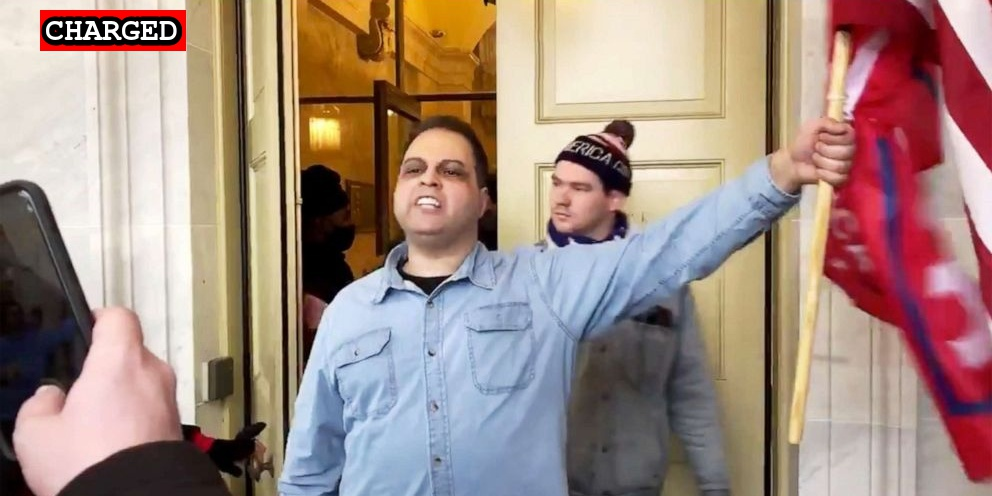
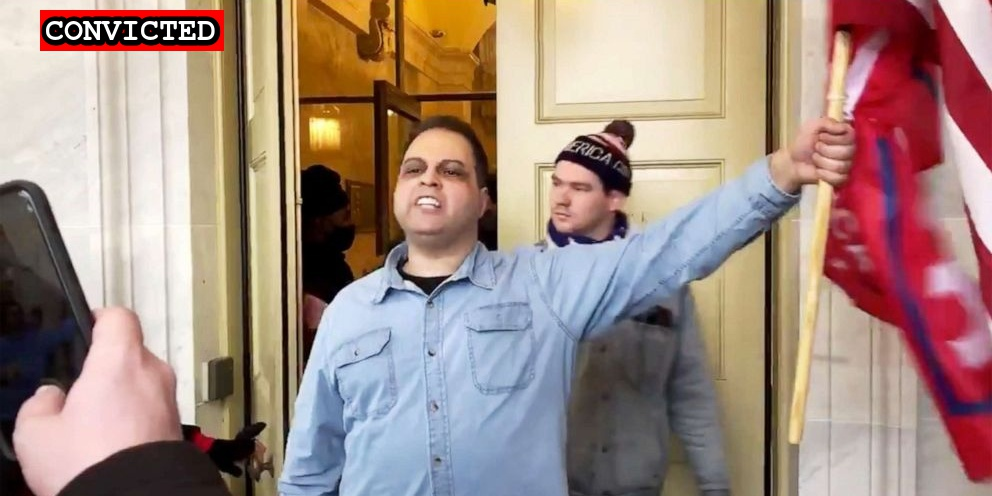
Latest plea and sentencing

Changed region(s): [[0.0625, 0.0, 0.25, 0.121]]

diff --git a/docs/_suspects/jessica-bustle.md b/docs/_suspects/jessica-bustle.md
@@ -3,12 +3,12 @@ name: Jessica Bustle
 lastName: Bustle
 aka:
 residence: Virginia
-status: Convicted
+status: Sentenced
 date: 2021-03-04
 charged: 2021-03-04
 indicted:
 convicted: 2021-06-14
-sentenced: 
+sentenced: 2021-08-04
 dismissed: 
 deceased:
 age: 36

diff --git a/docs/_suspects/joshua-bustle.md b/docs/_suspects/joshua-bustle.md
@@ -3,12 +3,12 @@ name: Joshua Bustle
 lastName: Bustle
 aka:
 residence: Virginia
-status: Convicted
+status: Sentenced
 date: 2021-03-04
 charged: 2021-03-04
 indicted:
 convicted: 2021-06-14
-sentenced: 
+sentenced: 2021-08-04
 dismissed: 
 deceased:
 age: 34

diff --git a/docs/_suspects/john-lolos.md b/docs/_suspects/john-lolos.md
@@ -3,11 +3,11 @@ name: John Lolos
 lastName: Lolos
 aka:
 residence:
-status: Charged
+status: Convicted
 date: 2021-01-09
 charged: 2021-01-09
 indicted:
-convicted: 
+convicted: 2021-08-04
 sentenced: 
 dismissed: 
 deceased:
